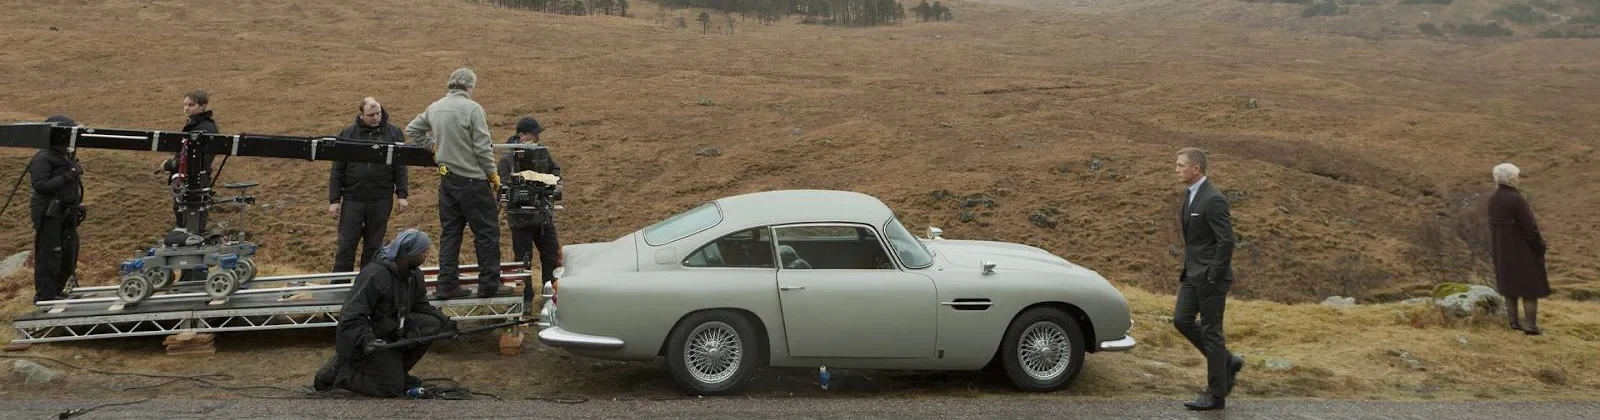
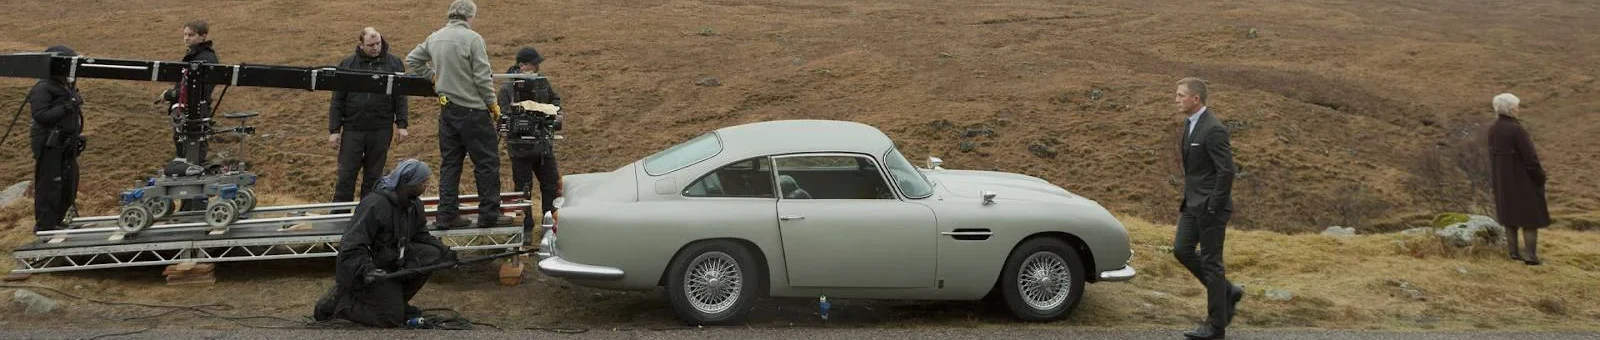
Make header image thinner and narrower

diff --git a/README.md b/README.md
@@ -1,5 +1,5 @@
 <div align="center">
-  <img src="./assets/carousel.webp" alt="Glen Etive, Scotland" width="100%" />
+  <img src="./assets/carousel.webp" alt="Glen Etive, Scotland" width="720" />
 </div>
 
 <br />
